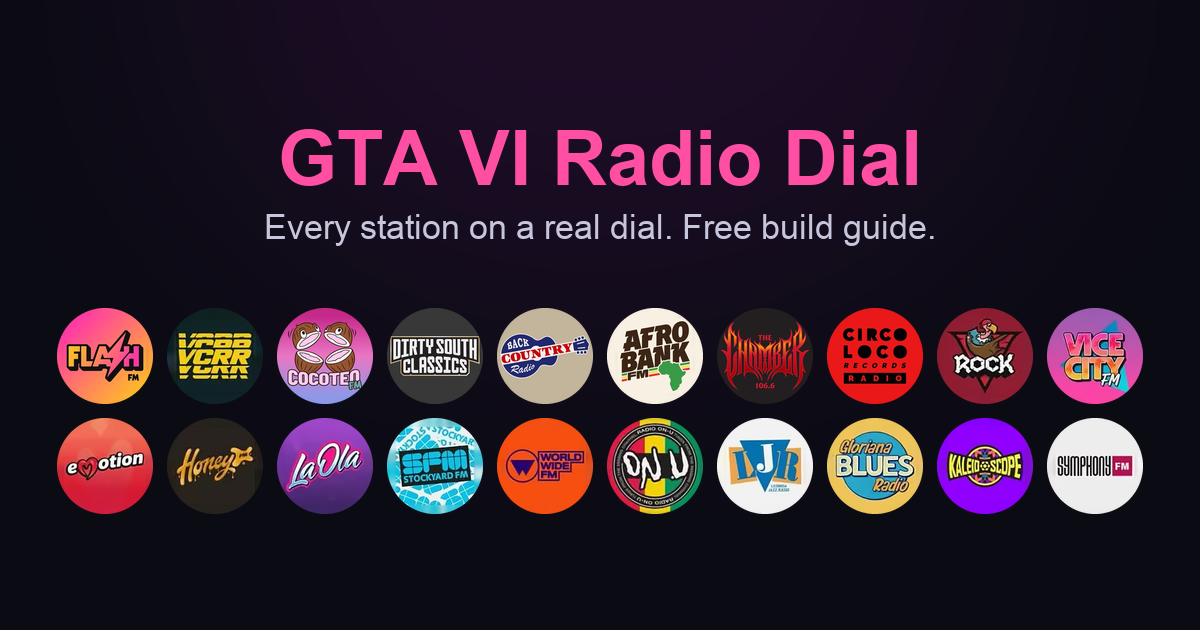
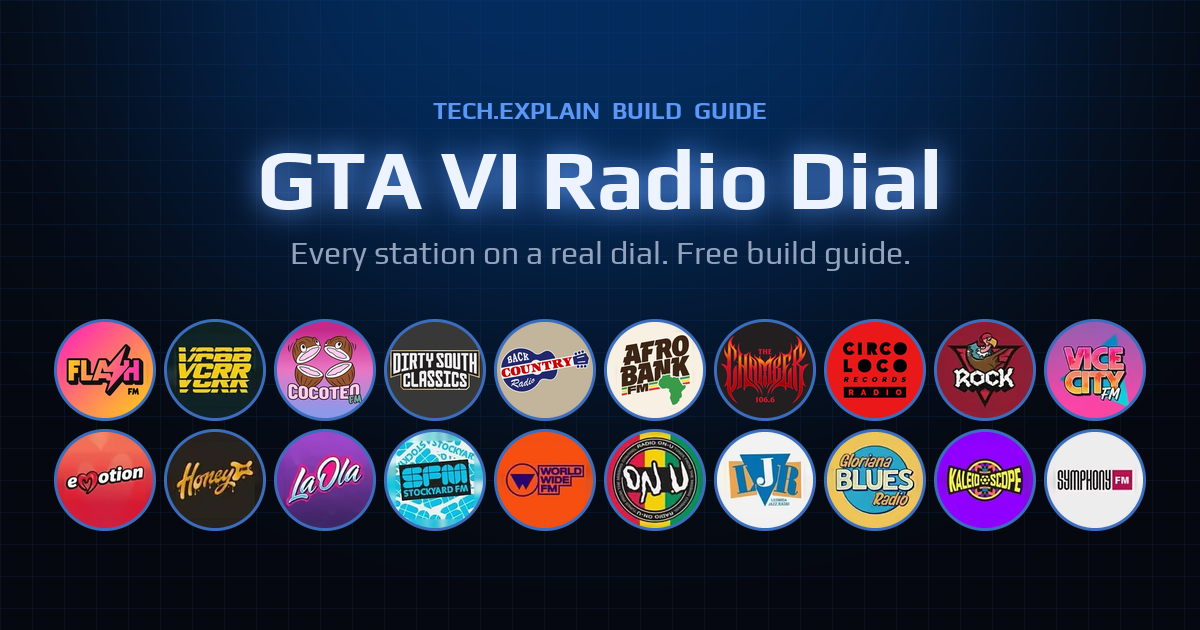
Restore Tech.Explain blue restyle (overwritten by previous build), blue link preview image

diff --git a/index.html b/index.html
@@ -17,36 +17,65 @@
 <meta name="twitter:description" content="Every GTA VI music station on a real dial. One-click install from Chrome.">
 <meta name="twitter:image" content="https://techexplain1.github.io/gta-radio/og.png">
 <script type="module" src="https://unpkg.com/esp-web-tools@10/dist/web/install-button.js?module"></script>
+<link rel="preconnect" href="https://fonts.googleapis.com">
+<link rel="preconnect" href="https://fonts.gstatic.com" crossorigin>
+<link href="https://fonts.googleapis.com/css2?family=Play:wght@400;700&display=swap" rel="stylesheet">
 <style>
-  :root { --pink:#ff4fa3; --teal:#2de2e6; --bg:#0b0b14; --card:#151522; --text:#ecebf5; --dim:#9a98b3; }
+  :root { --blue:#024492; --glow:#5b97f7; --ice:#cfe0ff; --bg:#05080f; --panel:#08142a; --text:#e6edf8; --dim:#93a3bd;
+          --line:rgba(91,151,247,.35); --display:"Play", "Trebuchet MS", "Segoe UI", sans-serif; }
   * { box-sizing: border-box; }
-  body { margin:0; background:radial-gradient(1200px 600px at 50% -10%, #2a1033 0%, var(--bg) 60%); color:var(--text);
-         font: 17px/1.55 -apple-system, BlinkMacSystemFont, "Segoe UI", Roboto, Helvetica, Arial, sans-serif; }
-  main { max-width: 760px; margin: 0 auto; padding: 48px 20px 80px; }
-  h1 { font-size: clamp(34px, 7vw, 54px); line-height: 1.05; margin: 0 0 12px; letter-spacing: -0.02em;
-       background: linear-gradient(90deg, var(--pink), #ffb36b 50%, var(--teal)); -webkit-background-clip: text; background-clip: text; color: transparent; }
-  .sub { color: var(--dim); font-size: 19px; margin: 0 0 28px; }
-  .wheel { display:grid; grid-template-columns: repeat(10, 1fr); gap: 6px; margin: 0 0 36px; }
-  .wheel img { width:100%; aspect-ratio:1; border-radius:50%; display:block; box-shadow: 0 0 0 2px #ffffff14; }
+  body { margin:0; color:var(--text); background-color:var(--bg);
+         background-image:
+           radial-gradient(900px 520px at 50% -8%, rgba(2,68,146,.55) 0%, rgba(2,68,146,0) 70%),
+           linear-gradient(rgba(91,151,247,.06) 1px, transparent 1px),
+           linear-gradient(90deg, rgba(91,151,247,.06) 1px, transparent 1px);
+         background-size: 100% 100%, 32px 32px, 32px 32px;
+         font: 17px/1.6 -apple-system, BlinkMacSystemFont, "Segoe UI", Roboto, Helvetica, Arial, sans-serif; }
+  main { max-width: 760px; margin: 0 auto; padding: 56px 20px 80px; }
+  .kicker { font-family: var(--display); font-weight:700; font-size:14px; letter-spacing:.24em; text-transform:uppercase;
+            color: var(--glow); text-shadow: 0 0 12px rgba(91,151,247,.7); margin: 0 0 10px; }
+  h1 { font-family: var(--display); font-weight:700; font-size: clamp(38px, 8vw, 60px); line-height: 1.02; margin: 0 0 14px;
+       color: #eef4ff; letter-spacing: .01em;
+       text-shadow: 0 0 10px rgba(91,151,247,.9), 0 0 28px rgba(91,151,247,.55), 0 0 60px rgba(2,68,146,.9); }
+  .sub { color: var(--dim); font-size: 19px; margin: 0 0 30px; }
+  .wheel { display:grid; grid-template-columns: repeat(10, 1fr); gap: 8px; margin: 0 0 40px; }
+  .wheel img { width:100%; aspect-ratio:1; border-radius:50%; display:block;
+               box-shadow: 0 0 0 2px rgba(91,151,247,.35), 0 0 14px rgba(2,68,146,.6); transition: box-shadow .2s, transform .2s; }
+  .wheel img:hover { transform: scale(1.08); box-shadow: 0 0 0 2px var(--glow), 0 0 22px rgba(91,151,247,.8); }
   @media (max-width: 560px) { .wheel { grid-template-columns: repeat(5, 1fr); } }
-  section { background: var(--card); border: 1px solid #ffffff12; border-radius: 16px; padding: 22px 24px; margin: 0 0 18px; }
-  h2 { font-size: 22px; margin: 0 0 12px; display:flex; align-items:center; gap:12px; }
-  .n { flex:none; width:32px; height:32px; border-radius:50%; background: var(--pink); color:#140010; font-weight:800;
-       display:grid; place-items:center; font-size:16px; }
+  section { position: relative; background: linear-gradient(180deg, rgba(10,26,54,.92), rgba(6,15,32,.92));
+            border: 1px solid var(--line); border-radius: 14px; padding: 24px 26px; margin: 0 0 18px;
+            box-shadow: inset 0 0 0 1px rgba(91,151,247,.06), 0 0 28px rgba(2,68,146,.35); }
+  section::before { content:""; position:absolute; left:26px; right:26px; top:-1px; height:2px; border-radius:2px;
+                    background: linear-gradient(90deg, transparent, var(--glow), transparent); opacity:.8; }
+  h2 { font-family: var(--display); font-weight:700; font-size: 23px; margin: 0 0 12px; display:flex; align-items:center; gap:14px; color:#f1f6ff; }
+  .n { flex:none; width:34px; height:34px; border-radius:50%; border:2px solid var(--glow); color: var(--ice);
+       font-family: var(--display); font-weight:700; font-size:17px; display:grid; place-items:center;
+       background: rgba(2,68,146,.45); box-shadow: 0 0 12px rgba(91,151,247,.6), inset 0 0 8px rgba(91,151,247,.35); }
   ol, ul { margin: 0; padding-left: 22px; } li { margin: 6px 0; }
-  a { color: var(--teal); }
-  .btn, esp-web-install-button button { display:inline-block; background: var(--pink); color:#140010; font-weight:800; font-size:18px;
-       padding: 14px 26px; border-radius: 999px; border:0; text-decoration:none; cursor:pointer; margin-top: 8px; }
-  .btn:hover, esp-web-install-button button:hover { filter: brightness(1.1); }
-  .note { color: var(--dim); font-size: 15px; margin-top: 10px; }
-  code { background:#ffffff14; padding: 1px 6px; border-radius: 6px; }
+  li::marker { color: var(--glow); font-family: var(--display); font-weight:700; }
+  a { color: #8db8ff; } a:hover { color: #b9d3ff; }
+  .btn, esp-web-install-button button { display:inline-block; font-family: var(--display); font-weight:700; font-size:18px;
+       letter-spacing:.08em; text-transform: uppercase; color:#fff; text-decoration:none; cursor:pointer;
+       padding: 14px 30px; border-radius: 999px; border:1px solid rgba(160,196,255,.7); margin-top: 10px;
+       background: linear-gradient(180deg, #1b6ae0, var(--blue));
+       box-shadow: 0 0 18px rgba(91,151,247,.65), inset 0 1px 0 rgba(255,255,255,.25); transition: box-shadow .2s, transform .2s; }
+  .btn:hover, esp-web-install-button button:hover { transform: translateY(-1px);
+       box-shadow: 0 0 30px rgba(91,151,247,.9), inset 0 1px 0 rgba(255,255,255,.3); }
+  .note { color: var(--dim); font-size: 15px; margin-top: 12px; }
+  code { font-family: "SF Mono", Menlo, Consolas, monospace; font-size: .9em; color: var(--ice);
+         background: rgba(2,68,146,.45); border: 1px solid rgba(91,151,247,.3); padding: 1px 7px; border-radius: 6px; }
   .warn { color:#ffcf6b; }
-  details { margin: 10px 0; } summary { cursor:pointer; font-weight:600; }
-  footer { color: var(--dim); font-size: 13px; margin-top: 30px; line-height: 1.5; }
+  details { margin: 10px 0; border-top: 1px solid rgba(91,151,247,.15); padding-top: 10px; }
+  details:first-of-type { border-top: 0; padding-top: 0; }
+  summary { cursor:pointer; font-weight:600; } summary::marker { color: var(--glow); }
+  footer { color: var(--dim); font-size: 13px; margin-top: 34px; line-height: 1.5; border-top: 1px solid rgba(91,151,247,.2); padding-top: 18px; }
+  footer .brand { font-family: var(--display); font-weight:700; color: var(--glow); text-shadow: 0 0 10px rgba(91,151,247,.6); }
 </style>
 </head>
 <body>
 <main>
+  <p class="kicker">Tech.Explain Build Guide</p>
   <h1>GTA VI Radio Dial</h1>
   <p class="sub">Twist a real dial to flip through all 20 music stations from GTA VI, playing live from YouTube on whatever speakers your computer is connected to. Static between stations included.</p>
 
@@ -108,7 +137,7 @@
   </section>
 
   <footer>
-    <p>Made by Tech.Explain. Free fan project, not affiliated with or endorsed by Rockstar Games or Take-Two Interactive. GTA, Grand Theft Auto and the station names and logos belong to their owners. Music plays through YouTube's official player; no audio is included in this download.</p>
+    <p>Made by <span class="brand">Tech.Explain</span>. Free fan project, not affiliated with or endorsed by Rockstar Games or Take-Two Interactive. GTA, Grand Theft Auto and the station names and logos belong to their owners. Music plays through YouTube's official player; no audio is included in this download.</p>
     <p>Affiliate disclosure: the "Buy the dial" link is an affiliate link. If you buy through it we may earn a small commission at no extra cost to you.</p>
   </footer>
 </main>
